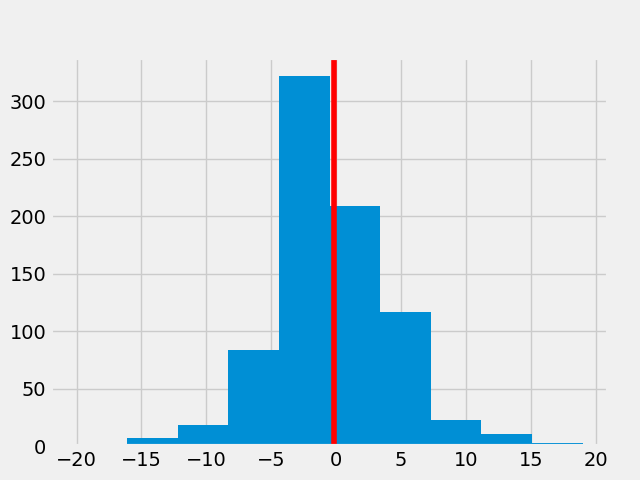
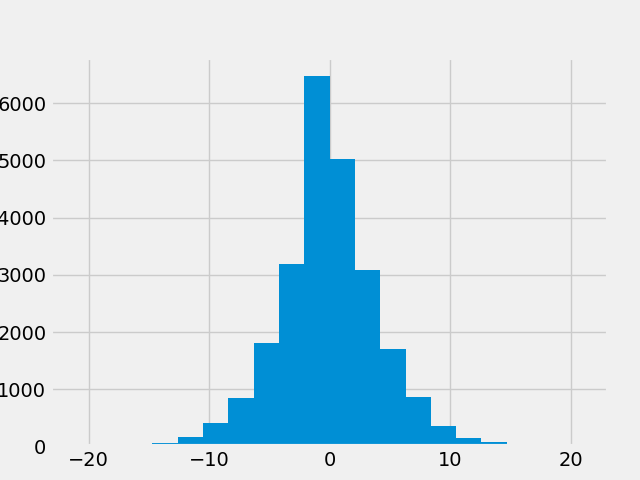
ztest

diff --git a/bootstrap_analysis.py b/bootstrap_analysis.py
@@ -12,9 +12,8 @@ if __name__ == '__main__':
     dfpre = pd.read_csv('pre2020.csv')
     df20['mov'] = df20.visitor_score - df20.home_score
     avg20 = np.mean(df20.MOV)
-    # np.mean(df20.mov) - np.mean(dfpre.mov)
     Ztest = ztest(df20.mov, dfpre.mov, value=0, alternative='larger')
-    Ttest = ttest_ind(df20.mov, dfpre.mov)
+
     # Plotting
     plotting = False
     if plotting:
@@ -28,9 +27,16 @@ if __name__ == '__main__':
         plt.savefig('images/sample_means.png')
         plt.show()
 
-        plt.hist(df20.mov)
-        plt.axvline(np.mean(df20.mov), color='red')
-        plt.savefig('images/pre20normal.png')
-        plt.show()
+    plt.hist(df20.mov, bins=10)
+    plt.savefig('images/20normal.png')
+    plt.title('2020 MOV (Home wins are negative)')
+    plt.tight_layout()
+    plt.show()
+
+    plt.hist(dfpre.mov, bins=20)
+    plt.savefig('images/pre20normal.png')
+    plt.title('Pre-2020 MOV (Home wins are negative)')
+    plt.tight_layout()
+    plt.show()
 
     

diff --git a/README.md b/README.md
@@ -61,21 +61,12 @@ In this case, as alluded to above, my null hypothesis is that there is no statis
 <tr><th> </th><th> </th></tr>
 <tr><td>
 
-| Generation Source    | grams CO<sub>2</sub>e |
-|----------------------|-----------------------|
-| Coal                 | 820        
-| Natural Gas          | 490        
-| Biomass              | 230        
-| Solar                | 48   
-| Geothermal           | 38      
-| Hydro                | 24         
-| Nuclear              | 12         
-| Wind                 | 11.5       
+<img src="images/pre20normal.png" width="600" />
 
 </td><td>
 
 
-<img src="images/ipcc_bar.png" width="600" />
+<img src="images/20normal.png" width="600" />
 
 </td></tr> </table>
 </p>
